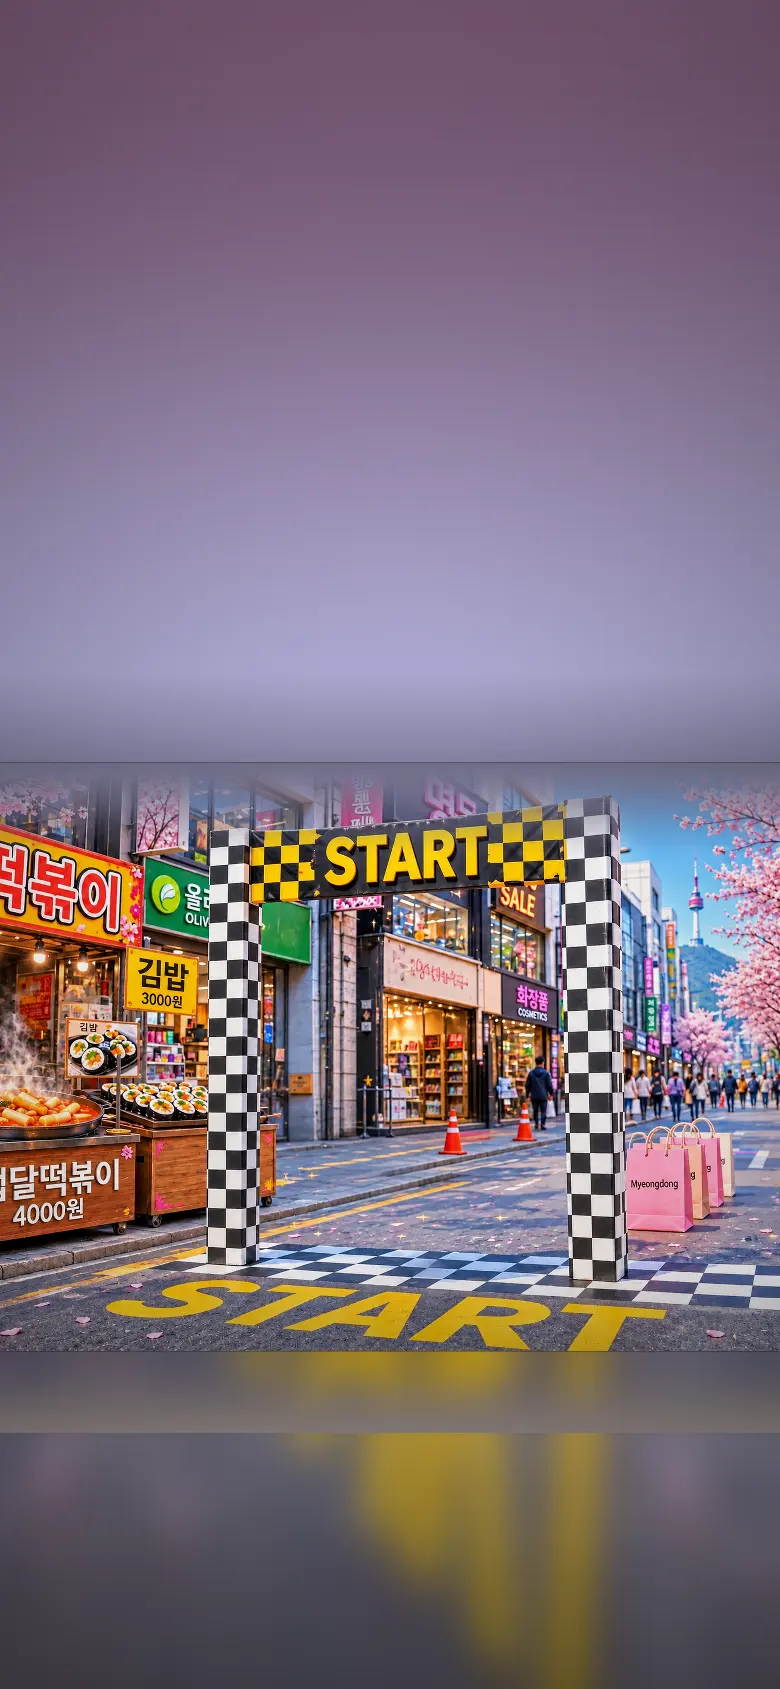
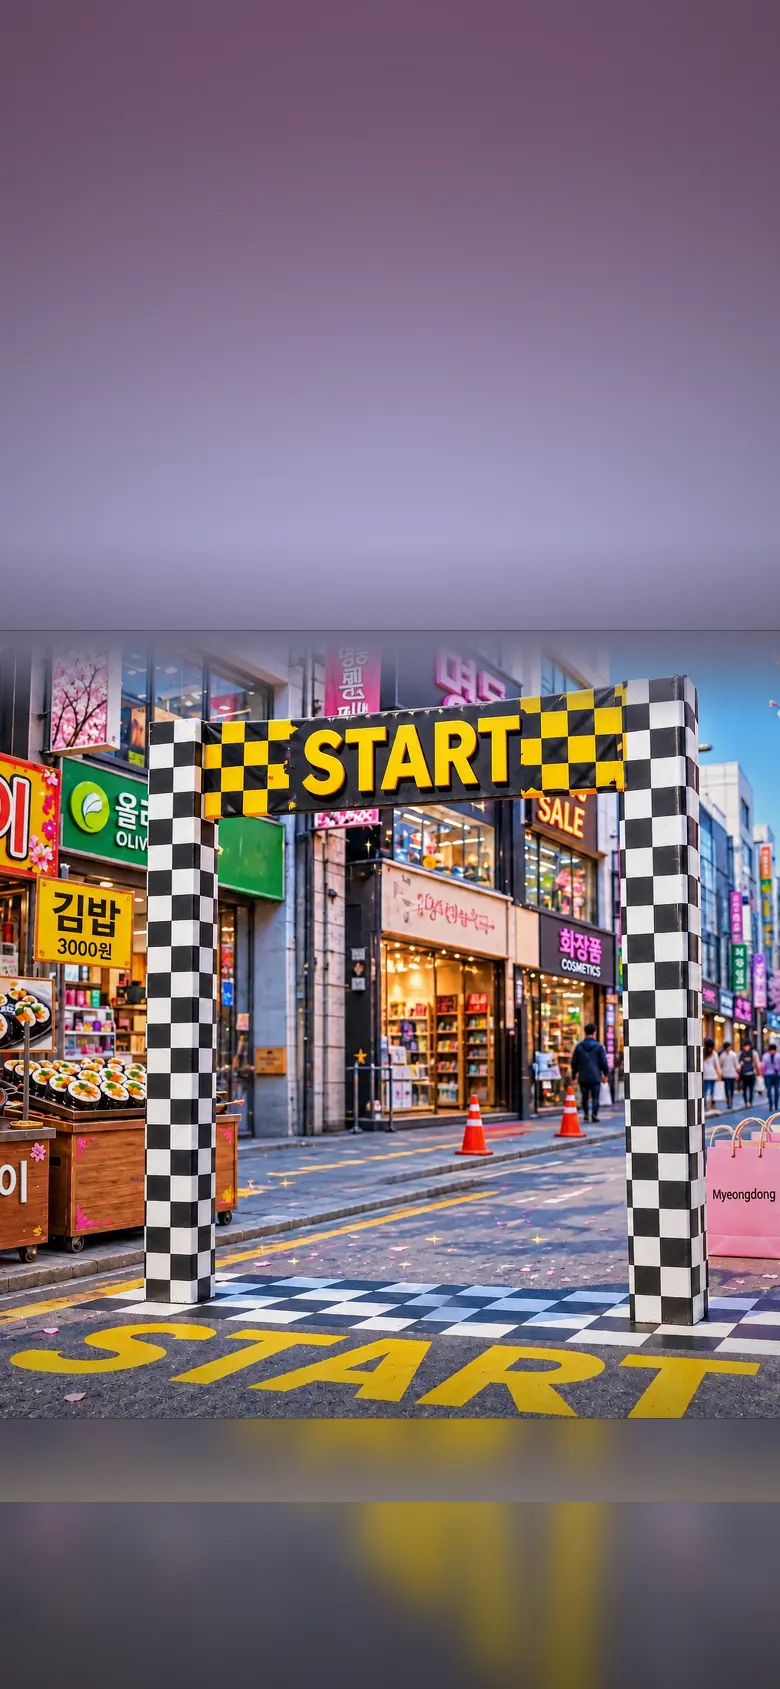
모모 런: 세로 배경 프레이밍(37~84%)·타이틀 가독성 보정

diff --git a/momo-run/styles.css b/momo-run/styles.css
@@ -298,9 +298,11 @@ html, body {
 
 /* 타이틀 */
 .screen-title {
-  background: radial-gradient(75% 60% at 50% 22%, rgba(26, 14, 36, .3), rgba(10, 6, 16, .82) 80%);
-  -webkit-backdrop-filter: none;
-  backdrop-filter: none;
+  background:
+    radial-gradient(70% 46% at 50% 40%, rgba(12, 7, 18, .12), rgba(10, 6, 16, .58) 72%),
+    linear-gradient(180deg, rgba(10, 6, 16, .46), rgba(10, 6, 16, .3) 40%, rgba(10, 6, 16, .72));
+  -webkit-backdrop-filter: blur(calc(1.5 * var(--s) * 1px)) saturate(1.05);
+  backdrop-filter: blur(calc(1.5 * var(--s) * 1px)) saturate(1.05);
 }
 .title-inner { text-align: center; color: #fff; display: flex; flex-direction: column; align-items: center; gap: calc(7 * var(--s) * 1px); max-width: calc(330 * var(--s) * 1px); }
 .title-icon {

diff --git a/momo-run/index.html b/momo-run/index.html
@@ -29,7 +29,7 @@
 <link rel="icon" href="./icon-32.png" sizes="32x32" type="image/png">
 <link rel="icon" href="./icon-192.png" sizes="192x192" type="image/png">
 <link rel="apple-touch-icon" href="./apple-touch-icon.png">
-<link rel="stylesheet" href="./styles.css?v=3">
+<link rel="stylesheet" href="./styles.css?v=4">
 </head>
 <body>
 
@@ -192,6 +192,6 @@
 </div>
 
 <script src="./i18n.js?v=1"></script>
-<script src="./game.js?v=6"></script>
+<script src="./game.js?v=7"></script>
 </body>
 </html>

diff --git a/momo-run/game.js b/momo-run/game.js
@@ -924,7 +924,7 @@
     ctx.fillRect(0, 0, VW, VH);
     if (!img) return;
 
-    const zoom = 1.14;
+    const zoom = 1.10;
     const sc = Math.max(VW / img.width, VH / img.height) * zoom;
     const w = img.width * sc;
     const h = img.height * sc;
